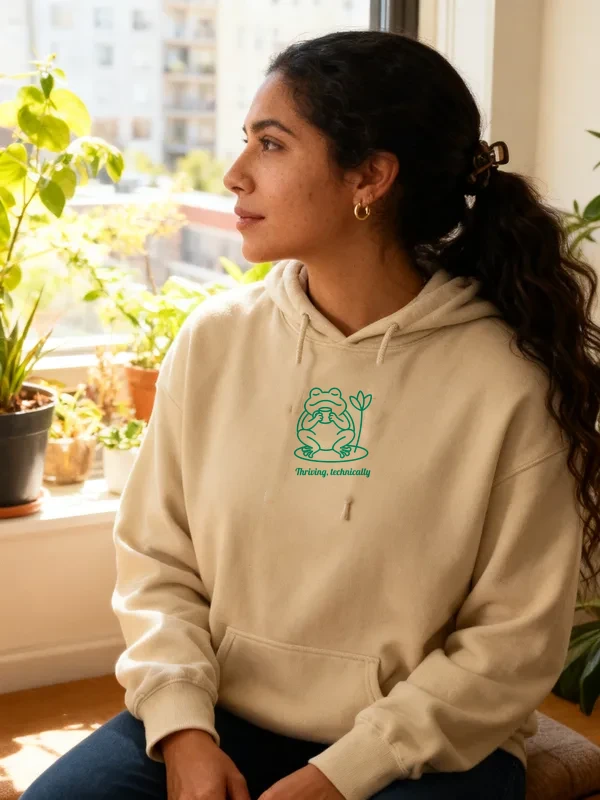
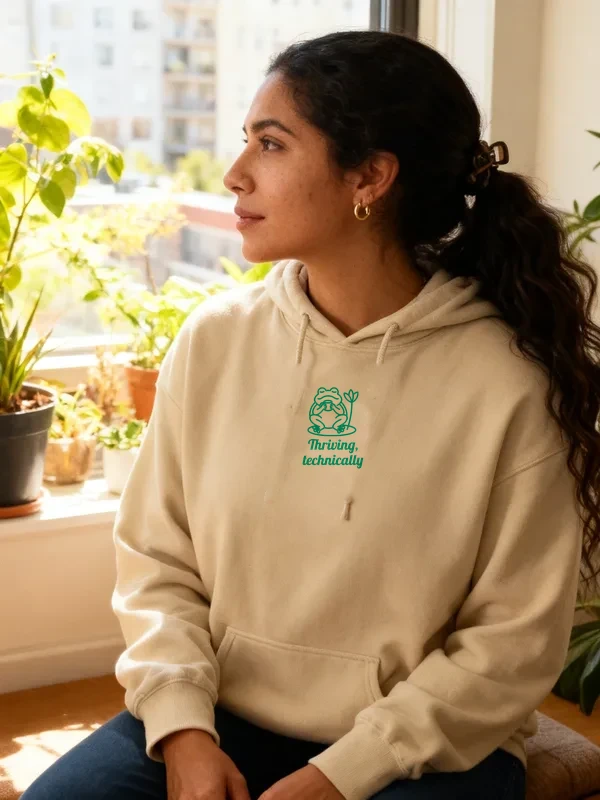
[C] wip 468 redo (stitch two-line caption), syncs running

Changed region(s): [[0.48, 0.4688, 0.63, 0.5938]]

diff --git a/docs/pipeline/468-embroidered-hoodie-thriving-technically-frog.md b/docs/pipeline/468-embroidered-hoodie-thriving-technically-frog.md
@@ -1,4 +1,4 @@
-status: REDO
+status: BUILDING [C] 2026-10-18 02:14
 lane: C
 type: new
 id: 468
@@ -39,3 +39,4 @@ kd: 34
   2. (Withdrawn: the SOP "Original art, made for" line stays.)
 - 2026-10-18 01:05 UTC builder [C]: REDO done. New cover (registry #672, fal $0.06): Sand front mockup as --design, three-quarter side view, hood named bunched behind her neck: the hood and both drawcords are clearly visible, long sleeves, pouch pocket, hair clear of the stitch. The model garbled the caption again, so the exact stitch (Printful file 1088528078, Sand/kelly green) was composited onto the chest at true 4 in scale (R4.8), reads "Thriving, technically" with frog, lily bud and lily pad; the drawcord segment that crossed the stitch area is hidden under it. Alt unchanged (accurate, starts Woman).
 - 2026-10-18 01:19 UTC director: REDO (stays DRAFT). (1) R4.8 stitched text size / R3.7.6: 'Thriving, technically' has a lowercase height of about 0.22 in (measured on the sheet: x-height 29 px of a 508 px, 3.91 in art) and is close to unreadable on the Sand mockup and the cover, and it carries the joke. Set it on two lines (Thriving, / technically) at 0.3 in lowercase or more, shrink the frog to fit the 4 x 4 in area, log the measurement, re-sync, new mockup, re-composite the cover stitch.
+- 2026-10-18 02:14 UTC builder [C]: REDO art done ($0). Caption now on two lines, 'Thriving,' / 'technically' in Lobster: x-height 106 px = 0.35 in at 300 dpi (was 0.22 in), measured on the file; frog and lily shrunk to 700 px (2.33 in) tall and thickened to a 18 px (1.5 mm) minimum stroke; one flat file 4.0 x 4.0 in. New files 1088636640 (kelly green on Sand) and 1088636642 (white on Navy); re-syncing both colors with pf-emb-sync FORCE=1. Sand + Navy embroidery mockups replaced (caption reads in both). Cover stitch re-composited at true scale (R4.8): both lines read.
